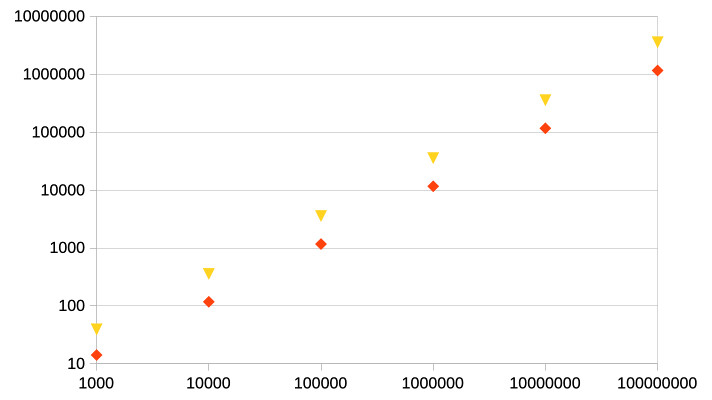
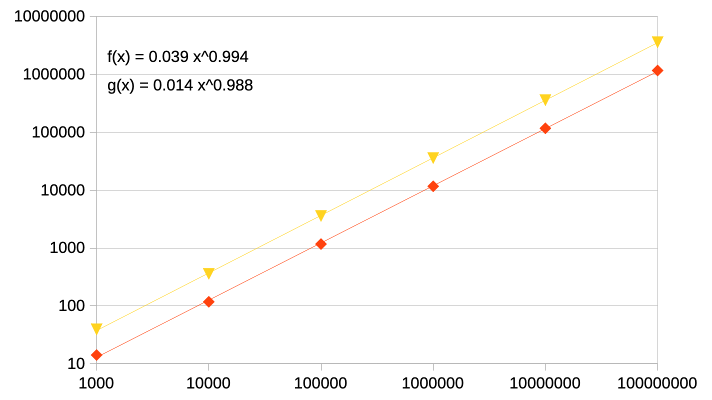
improved graph in report

diff --git a/time_test.md b/time_test.md
@@ -102,10 +102,10 @@ $$
     y = kx + b
 $$
 
-Для кольцевого списка $k = 0.0116881$.
+Для кольцевого списка $k = 0.039$.
 
-Для классического списка $k = 0.035884$.
+Для классического списка $k = 0.014$.
 
-Смысл величины $k$ состоит в том, что она обратна скорости, т.е. кольцевой список на массивах, как и ожидалось, работает быстрее классического списка примерно в 3,1 раза.
+Смысл величины $k$ состоит в том, что она обратна скорости, т.е. кольцевой список на массивах, как и ожидалось, работает быстрее классического списка примерно в 2,9 раза.
 
 
